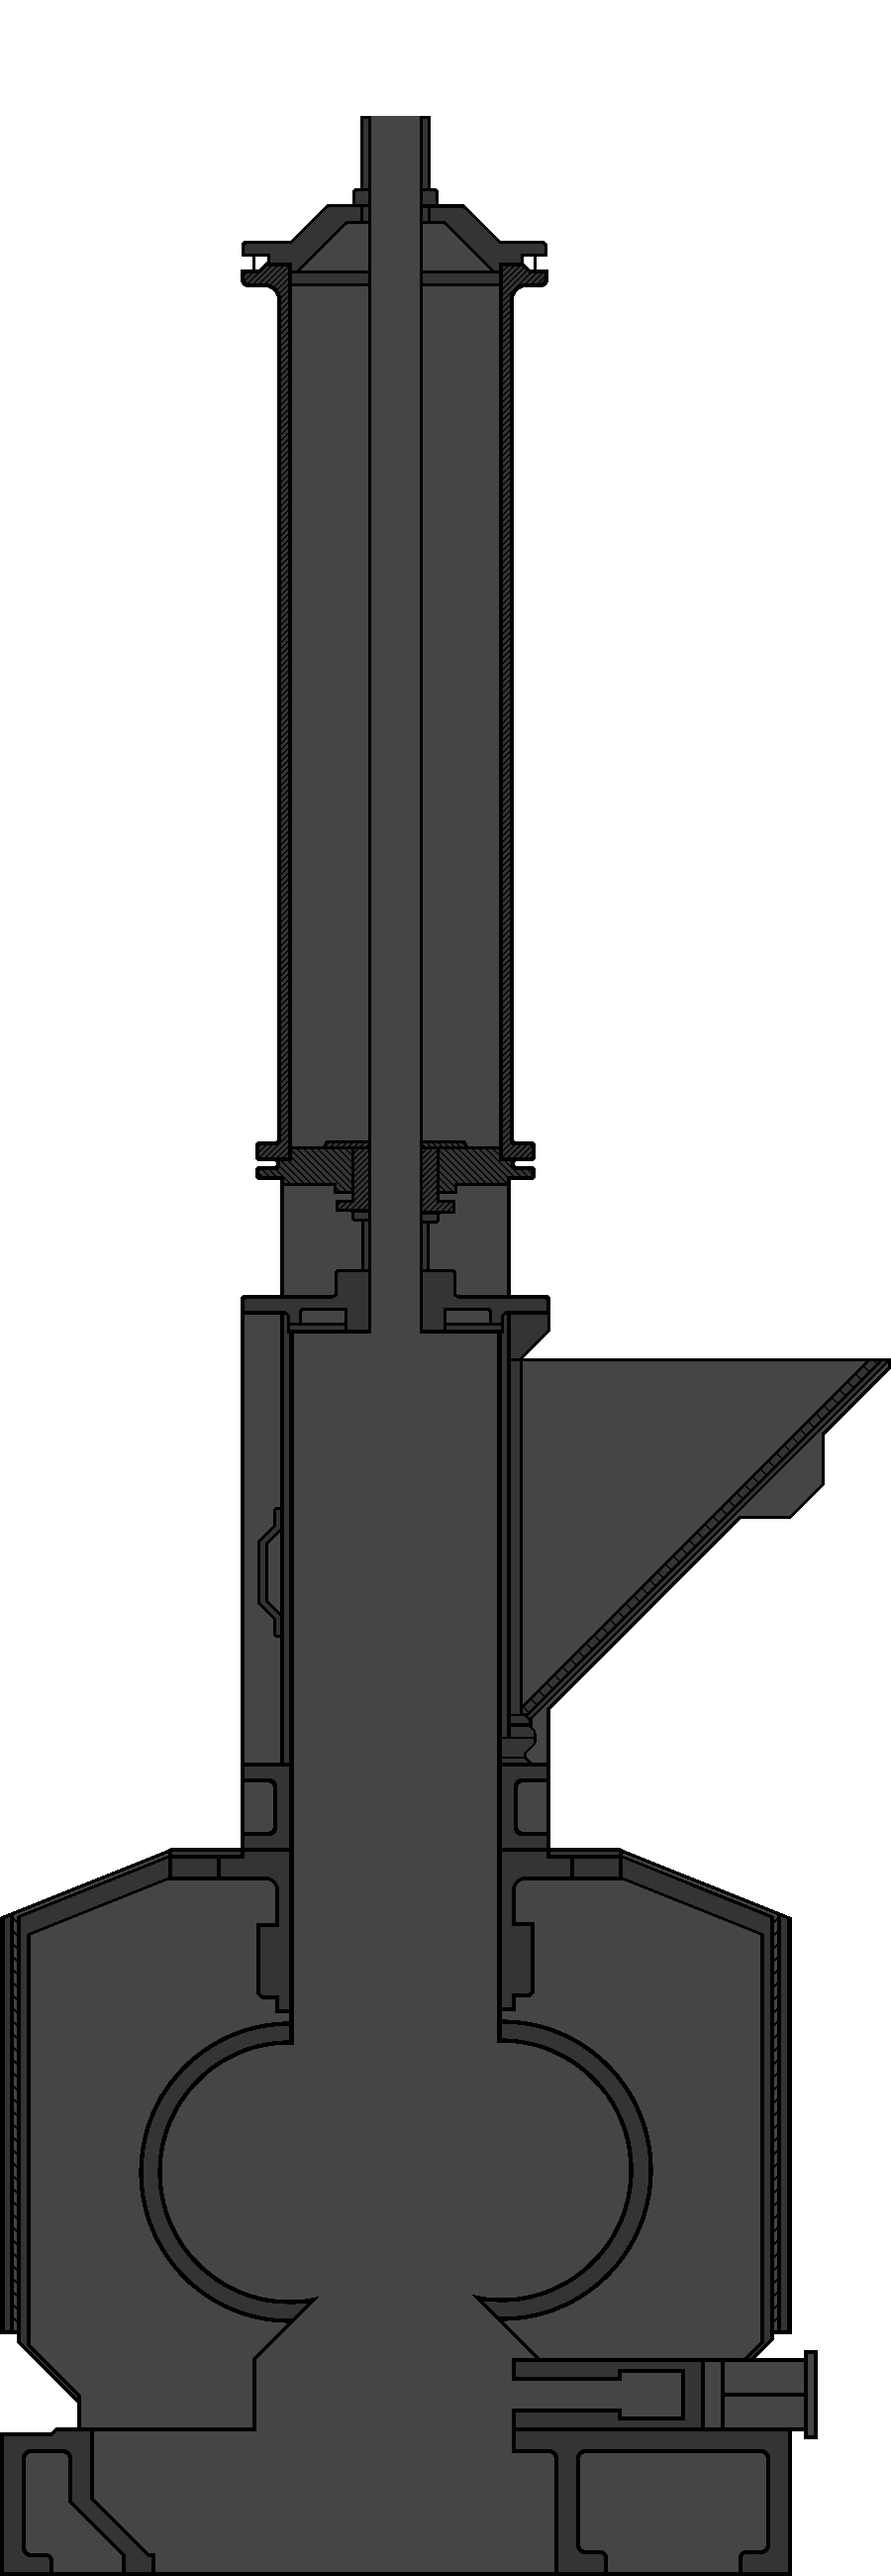
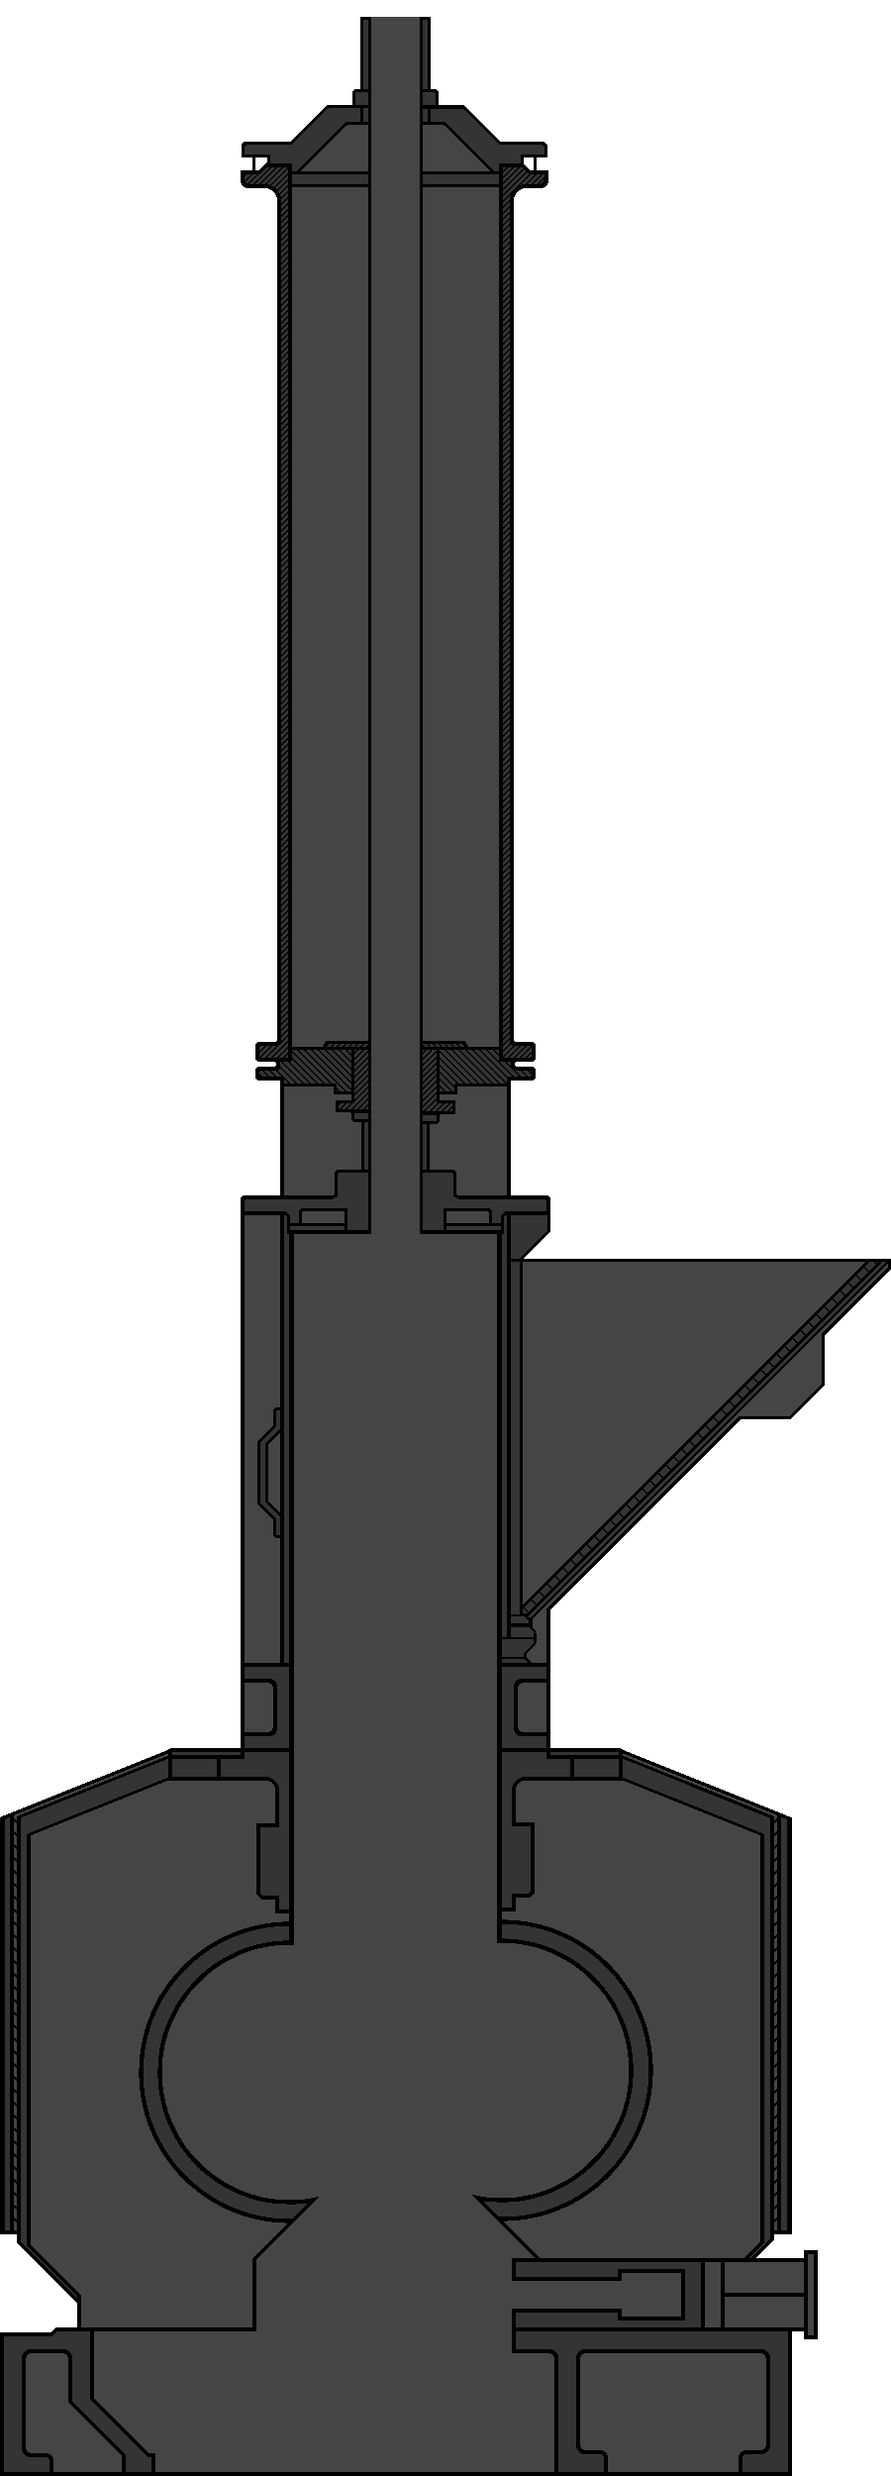
Коррекция файла OPCDA

diff --git a/MainWindow.xaml b/MainWindow.xaml
@@ -50,16 +50,26 @@
                 <Label Background="Gray" BorderThickness="1" BorderBrush="Black" Content="    ПУРФ&#10;ВКЛЮЧЕН" Height="40" Canvas.Left="104" Canvas.Top="48" Width="100" FontSize="11" HorizontalContentAlignment="Center" VerticalContentAlignment="Center" Padding="1" FontWeight="Bold" Foreground="White"/>
                 <Label Background="Gray" BorderThickness="1" BorderBrush="Black" Content="ШНЕК ПОД-КИ&#10;    ВКЛЮЧЕН" Height="40" Canvas.Left="104" Canvas.Top="90" Width="100" FontSize="11" HorizontalContentAlignment="Center" VerticalContentAlignment="Center" Padding="1" FontWeight="Bold" Foreground="White"/>
 
-                <Grid Name="Mixer" Canvas.Top="200" Canvas.Left="80" Panel.ZIndex="1">
+                <Grid Name="Mixer" Canvas.Top="256" Canvas.Left="80" Panel.ZIndex="1">
                     <Grid.ColumnDefinitions>
                         <ColumnDefinition/>
                     </Grid.ColumnDefinitions>
                     <Grid.RowDefinitions>
                         <RowDefinition/>
                     </Grid.RowDefinitions>
-                    <Canvas Grid.Column="0" Grid.Row="0" Width="280" Height="840">
-
+                    <Canvas Grid.Column="0" Grid.Row="0" Width="280" Height="780">
                         <Image Source="/img/mixerMain.png" Width="280"/>
+                        <Image Source="/img/rotor.png" Width="80" Canvas.Left="50" Canvas.Top="610"/>
+                        <Image Source="/img/rotor.png" Width="80" Canvas.Left="118" Canvas.Top="610" RenderTransformOrigin="0.5,0.5">
+                            <Image.RenderTransform>
+                                <TransformGroup>
+                                    <ScaleTransform/>
+                                    <SkewTransform/>
+                                    <RotateTransform Angle="42"/>
+                                    <TranslateTransform/>
+                                </TransformGroup>
+                            </Image.RenderTransform>
+                        </Image>
                     </Canvas>
                 </Grid>
 

diff --git a/OPCDA.cs b/OPCDA.cs
@@ -18,75 +18,80 @@ namespace MixRubber2
 
         public static List<Tag> AllTags = new List<Tag>()
         {
+            #region Scales C
             new Tag("BatcherC1", "MixRubber17.PLC110-504.BatchersC.BatcherC1"),
-new Tag("BatcherC2", "MixRubber17.PLC110-504.BatchersC.BatcherC2"),
-new Tag("BatcherC3", "MixRubber17.PLC110-504.BatchersC.BatcherC3"),
-new Tag("BatcherC4", "MixRubber17.PLC110-504.BatchersC.BatcherC4"),
-new Tag("BatcherC5", "MixRubber17.PLC110-504.BatchersC.BatcherC5"),
+            new Tag("BatcherC2", "MixRubber17.PLC110-504.BatchersC.BatcherC2"),
+            new Tag("BatcherC3", "MixRubber17.PLC110-504.BatchersC.BatcherC3"),
+            new Tag("BatcherC4", "MixRubber17.PLC110-504.BatchersC.BatcherC4"),
+            new Tag("BatcherC5", "MixRubber17.PLC110-504.BatchersC.BatcherC5"),
+        
+            new Tag("ScalesC_IsClosed", "MixRubber17.PLC110-504.ScalesC_Status.IsClosed"),
+            new Tag("ScalesC_IsOpened", "MixRubber17.PLC110-504.ScalesC_Status.IsOpened"),
+            new Tag("ScalesC_Weighing", "MixRubber17.PLC110-504.ScalesC_Status.Weighing"),
+            // new Tag("ScalesC_Tare_IsBusy", "MixRubber17.PLC110-504.ScalesC_Status.Tare_IsBusy"),
+            // new Tag("ScalesC_Weight_NotNormal", "MixRubber17.PLC110-504.ScalesC_Status.Weight_NotNormal"),
+            // new Tag("ScalesC_Initial", "MixRubber17.PLC110-504.ScalesC_Status.Initial"),
+            // new Tag("ScalesC_CommandOpen", "MixRubber17.PLC110-504.ScalesC_Status.CommandOpen"),
 
-new Tag("ScalesC_IsClosed", "MixRubber17.PLC110-504.ScalesC_Status.IsClosed"),
-new Tag("ScalesC_IsOpened", "MixRubber17.PLC110-504.ScalesC_Status.IsOpened"),
-new Tag("ScalesC_Weighing", "MixRubber17.PLC110-504.ScalesC_Status.Weighing"),
-// new Tag("ScalesC_Tare_IsBusy", "MixRubber17.PLC110-504.ScalesC_Status.Tare_IsBusy"),
-// new Tag("ScalesC_Weight_NotNormal", "MixRubber17.PLC110-504.ScalesC_Status.Weight_NotNormal"),
-// new Tag("ScalesC_Initial", "MixRubber17.PLC110-504.ScalesC_Status.Initial"),
-// new Tag("ScalesC_CommandOpen", "MixRubber17.PLC110-504.ScalesC_Status.CommandOpen"),
+            // new Tag("ScalesC_IsNotOpening", "MixRubber17.PLC110-504.ScalesC_Fail.IsNotOpening"),
+            // new Tag("ScalesC_IsNotClosing", "MixRubber17.PLC110-504.ScalesC_Fail.IsNotClosing"),
+            // new Tag("ScalesC_BatcherFail", "MixRubber17.PLC110-504.ScalesC_Fail.BatcherFail"),
+            // new Tag("ScalesC_BatcherNotWork", "MixRubber17.PLC110-504.ScalesC_Fail.Batcher_NotWork"),
+            // new Tag("ScalesC_ClosedAndOpened", "MixRubber17.PLC110-504.ScalesC_Fail.ClosedAndOpened"),
 
-// new Tag("ScalesC_IsNotOpening", "MixRubber17.PLC110-504.ScalesC_Fail.IsNotOpening"),
-// new Tag("ScalesC_IsNotClosing", "MixRubber17.PLC110-504.ScalesC_Fail.IsNotClosing"),
-// new Tag("ScalesC_BatcherFail", "MixRubber17.PLC110-504.ScalesC_Fail.BatcherFail"),
-// new Tag("ScalesC_BatcherNotWork", "MixRubber17.PLC110-504.ScalesC_Fail.Batcher_NotWork"),
-// new Tag("ScalesC_ClosedAndOpened", "MixRubber17.PLC110-504.ScalesC_Fail.ClosedAndOpened"),
+            new Tag("ScalesC.CurNeed", "MixRubber17.PLC100_ScalesC.CurNeed"),
+            new Tag("ScalesC.FullNeed", "MixRubber17.PLC100_ScalesC.FullNeed"),
+            new Tag("ScalesC.CurReal", "MixRubber17.PLC100_ScalesC.CurReal"),
+            new Tag("ScalesC.FullReal", "MixRubber17.PLC100_ScalesC.FullReal"),
+            #endregion
 
-new Tag("ScalesC.CurNeed", "MixRubber17.PLC100_ScalesC.CurNeed"),
-new Tag("ScalesC.FullNeed", "MixRubber17.PLC100_ScalesC.FullNeed"),
-new Tag("ScalesC.CurReal", "MixRubber17.PLC100_ScalesC.CurReal"),
-new Tag("ScalesC.FullReal", "MixRubber17.PLC100_ScalesC.FullReal"),
+            #region Conteiner C
+            // new Tag("ContainerC_IsClosed", "MixRubber17.PLC110-504.ContainerC_Status.IsClosed"),
+            // new Tag("ContainerC_IsOpened", "MixRubber17.PLC110-504.ContainerC_Status.IsOpened"),
+            // new Tag("ContainerC_BatcherNum", "MixRubber17.PLC110-504.ContainerC_Status.BatcherNum", "plc110.plc110_SCADA.CV0_na_C"),
+            // new Tag("ContainerC_CommandOpen", "MixRubber17.PLC110-504.ContainerC_Status.CommandOpen"),
+            // new Tag("ContainerC_Weighting", "MixRubber17.PLC110-504.ContainerC_Status.Weighting"),
 
-// new Tag("ContainerC_IsClosed", "MixRubber17.PLC110-504.ContainerC_Status.IsClosed"),
-// new Tag("ContainerC_IsOpened", "MixRubber17.PLC110-504.ContainerC_Status.IsOpened"),
-// new Tag("ContainerC_BatcherNum", "MixRubber17.PLC110-504.ContainerC_Status.BatcherNum",plc110.plc110_SCADA.CV0_na_C"),
-// new Tag("ContainerC_CommandOpen", "MixRubber17.PLC110-504.ContainerC_Status.CommandOpen"),
-// new Tag("ContainerC_Weighting", "MixRubber17.PLC110-504.ContainerC_Status.Weighting"),
+            // new Tag("ContainerC_IsNotClosing", "MixRubber17.PLC110-504.ContainerC_Fail.IsNotClosing"),
+            // new Tag("ContainerC_IsNotOpening", "MixRubber17.PLC110-504.ContainerC_Fail.IsNotOpening"),
+            // new Tag("ContainerC_ClosedAndOpened", "MixRubber17.PLC110-504.ContainerC_Fail.ClosedAndOpened"),
+            // new Tag("ContainerC_NotFull", "MixRubber17.PLC110-504.ContainerC_Fail.NotFull"),
 
-// new Tag("ScrewTC_Working", "MixRubber17.PLC110-504.ScrewTC.ScrewTC_Working"),
-// new Tag("ScrewTC_CommandOn", "MixRubber17.PLC110-504.ScrewTC.ScrewTC_CommandOn"),
-// new Tag("ScrewTC_NotOn", "MixRubber17.PLC110-504.ScrewTC.ScrewTC_NotOn"),
-// new Tag("ScrewTC_NotStoped", "MixRubber17.PLC110-504.ScrewTC.ScrewTC_NotStoped"),
+            // new Tag("ScrewTC_Working", "MixRubber17.PLC110-504.ScrewTC.Working"),
+            // new Tag("ScrewTC_CommandOn", "MixRubber17.PLC110-504.ScrewTC.CommandOn"),
+            // new Tag("ScrewTC_NotOn", "MixRubber17.PLC110-504.ScrewTC.NotOn"),
+            // new Tag("ScrewTC_NotStoped", "MixRubber17.PLC110-504.ScrewTC.NotStoped"),
+            #endregion
 
-// new Tag("ContainerC_IsNotClosing", "MixRubber17.PLC110-504.ContainerC_Fail.IsNotClosing"),
-// new Tag("ContainerC_IsNotOpening", "MixRubber17.PLC110-504.ContainerC_Fail.IsNotOpening"),
-// new Tag("ContainerC_ClosedAndOpened", "MixRubber17.PLC110-504.ContainerC_Fail.ClosedAndOpened"),
-// new Tag("ContainerC_NotFull", "MixRubber17.PLC110-504.ContainerC_Fail.NotFull"),
+            #region Scales J
+            new Tag("BatcherJ1", "MixRubber17.PLC110-504.BatchersJ.BatcherJ1"),
+            new Tag("BatcherJ2", "MixRubber17.PLC110-504.BatchersJ.BatcherJ2"),
+            new Tag("BatcherJ3", "MixRubber17.PLC110-504.BatchersJ.BatcherJ3"),
+            new Tag("BatcherJ4", "MixRubber17.PLC110-504.BatchersJ.BatcherJ4"),
 
-new Tag("BatcherJ1", "MixRubber17.PLC110-504.BatchersJ.BatcherJ1"),
-new Tag("BatcherJ2", "MixRubber17.PLC110-504.BatchersJ.BatcherJ2"),
-new Tag("BatcherJ3", "MixRubber17.PLC110-504.BatchersJ.BatcherJ3"),
-new Tag("BatcherJ4", "MixRubber17.PLC110-504.BatchersJ.BatcherJ4"),
+            new Tag("ScalesJ_IsClosed", "MixRubber17.PLC110-504.ScalesJ_Status.IsClosed_IsOpened"),
+            new Tag("ScalesJ_Weighing", "MixRubber17.PLC110-504.ScalesJ_Status.Weighing"),
+            //new Tag("ScalesJ_Tare_IsBusy", "MixRubber17.PLC110-504.ScalesJ_Status.Tare_IsBusy"),
+            //new Tag("ScalesJ_TWeight_NotNormal", "MixRubber17.PLC110-504.ScalesJ_Status.Weight_NotNormal"),
+            //new Tag("ScalesJ_Initial", "MixRubber17.PLC110-504.ScalesJ_Status.Initial"),
+            //new Tag("ScalesJ_CommandOpen", "MixRubber17.PLC110-504.ScalesJ_Status.CommandOpen"),
 
-new Tag("ScalesJ_IsClosed", "MixRubber17.PLC110-504.ScalesJ_Status.IsClosed_IsOpened"),
-new Tag("ScalesJ_Weighing", "MixRubber17.PLC110-504.ScalesJ_Status.Weighing"),
-//new Tag("ScalesJ_Tare_IsBusy", "MixRubber17.PLC110-504.ScalesJ_Status.Tare_IsBusy"),
-//new Tag("ScalesJ_TWeight_NotNormal", "MixRubber17.PLC110-504.ScalesJ_Status.Weight_NotNormal"),
-//new Tag("ScalesJ_Initial", "MixRubber17.PLC110-504.ScalesJ_Status.Initial"),
-//new Tag("ScalesJ_CommandOpen", "MixRubber17.PLC110-504.ScalesJ_Status.CommandOpen"),
-//new Tag("ScalesJ_BatcherNotWork", "MixRubber17.PLC110-504.ScalesJ_Fail.Batcher_NotWork"),
+            //new Tag("ScalesJ_BatcherNotWork", "MixRubber17.PLC110-504.ScalesJ_Fail.Batcher_NotWork"),
+            // new Tag("ScalesJ_IsNotOpening", "MixRubber17.PLC110-504.ScalesJ_Fail.IsNotOpening"),
+            // new Tag("ScalesJ_IsNotClosing", "MixRubber17.PLC110-504.ScalesJ_Fail.IsNotClosing"),
+            // new Tag("ScalesJ_BatcherFail", "MixRubber17.PLC110-504.ScalesJ_Fail.BatcherFail"),
 
-// new Tag("ScalesJ_IsNotOpening", "MixRubber17.PLC110-504.ScalesJ_Fail.IsNotOpening"),
-// new Tag("ScalesJ_IsNotClosing", "MixRubber17.PLC110-504.ScalesJ_Fail.IsNotClosing"),
-// new Tag("ScalesJ_BatcherFail", "MixRubber17.PLC110-504.ScalesJ_Fail.BatcherFail"),
+            new Tag("ScalesJ_CurNeed", "MixRubber17.PLC100_ScalesJ.CurNeed"),
+            new Tag("ScalesJ_FullNeed", "MixRubber17.PLC100_ScalesJ.FullNeed"),
+            new Tag("ScalesJ_CurReal", "MixRubber17.PLC100_ScalesJ.CurReal"),
+            new Tag("ScalesJ_FullReal", "MixRubber17.PLC100_ScalesJ.FullReal"),
+            #endregion
 
+            //new Tag("Injector_Weighting", "MixRubber17.PLC110-504.Injector.Weighting"),
+            //new Tag("Injector_NotEmpty", "MixRubber17.PLC110-504.Injector.NotEmpty"),
+            //new Tag("Injector_NotFull", "MixRubber17.PLC110-504.Injector.NotFull"),
 
-new Tag("ScalesJ_CurNeed", "MixRubber17.PLC100_ScalesJ.CurNeed"),
-new Tag("ScalesJ_FullNeed", "MixRubber17.PLC100_ScalesJ.FullNeed"),
-new Tag("ScalesJ_CurReal", "MixRubber17.PLC100_ScalesJ.CurReal"),
-new Tag("ScalesJ_FullReal", "MixRubber17.PLC100_ScalesJ.FullReal"),
-
-//new Tag("Injector_Weighting", "MixRubber17.PLC110-504.Injector.Weighting"),
-//new Tag("Injector_NotEmpty", "MixRubber17.PLC110-504.Injector.NotEmpty"),
-//new Tag("Injector_NotFull", "MixRubber17.PLC110-504.Injector.NotFull"),
-
-new Tag("BatcherD1", "MixRubber17.PLC110-504.BatchersD.BatcherD1"),
+            new Tag("BatcherD1", "MixRubber17.PLC110-504.BatchersD.BatcherD1"),
 new Tag("BatcherD2", "MixRubber17.PLC110-504.BatchersD.BatcherD2"),
 new Tag("BatcherD3", "MixRubber17.PLC110-504.BatchersD.BatcherD3"),
 new Tag("BatcherD4", "MixRubber17.PLC110-504.BatchersD.BatcherD4"),
